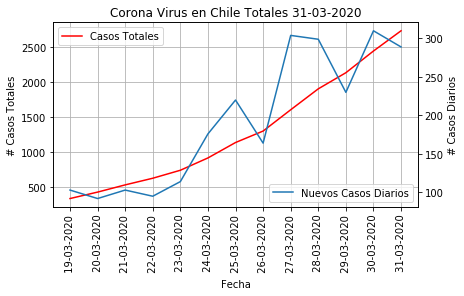
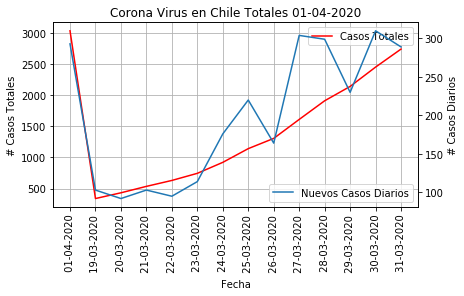
refresh

diff --git a/readme.md b/readme.md
@@ -534,3 +534,215 @@ Im pushing everything to a Live dashobard that you can find [here](https://datas
 | 16 | Aysén              |              0 |               2 | 0 %               |            0 |             0 | 31-03-2020 |
 | 17 | Magallanes         |             24 |              63 | 2 %               |            0 |             0 | 31-03-2020 |
 | 18 | Total              |            289 |            2738 | 100%              |           12 |           156 | 31-03-2020 |
+
+### 01-04-2020
+<img src="https://github.com/sundios/Chile-coronavirus/blob/master/Images/01-04-2020.png" width="60%" height="100%"> 
+
+|     | Country                | Total Cases   | New Cases   | Total Deaths   | New Deaths   | Total Recovered   | Active Cases   | Serious,Critical   | Total Cases/1M pop   | Total Deaths/1M pop   | Reported 1st Case   |
+|----:|:-----------------------|:--------------|:------------|:---------------|:-------------|:------------------|:---------------|:-------------------|:---------------------|:----------------------|:--------------------|
+|   0 | USA                    | 189,886       | +1,356      | 4,100          | +47          | 7,274             | 178,512        | 4,576              | 574                  | 12                    | Jan 20              |
+|   1 | Italy                  | 105,792       |             | 12,428         |              | 15,729            | 77,635         | 4,023              | 1,750                | 206                   | Jan 29              |
+|   2 | Spain                  | 102,136       | +6,213      | 9,053          | +589         | 22,647            | 70,436         | 5,872              | 2,185                | 194                   | Jan 30              |
+|   3 | Germany                | 74,508        | +2,700      | 821            | +46          | 16,100            | 57,587         | 2,675              | 889                  | 10                    | Jan 26              |
+|   4 | France                 | 52,128        |             | 3,523          |              | 9,444             | 39,161         | 5,565              | 799                  | 54                    | Jan 23              |
+|   5 | Iran                   | 47,593        | +2,988      | 3,036          | +138         | 15,473            | 29,084         | 3,871              | 567                  | 36                    | Feb 18              |
+|   6 | UK                     | 29,474        | +4,324      | 2,352          | +563         | 135               | 26,987         | 163                | 434                  | 35                    | Jan 30              |
+|   7 | Switzerland            | 17,137        | +532        | 461            | +28          | 2,967             | 13,709         | 348                | 1,980                | 53                    | Feb 24              |
+|   8 | Belgium                | 13,964        | +1,189      | 828            | +123         | 2,132             | 11,004         | 1,088              | 1,205                | 71                    | Feb 03              |
+|   9 | Netherlands            | 13,614        | +1,019      | 1,173          | +134         | 250               | 12,191         | 1,053              | 795                  | 68                    | Feb 26              |
+|  10 | Turkey                 | 13,531        |             | 214            |              | 243               | 13,074         | 847                | 160                  | 3                     | Mar 09              |
+|  11 | Austria                | 10,501        | +321        | 146            | +18          | 1,436             | 8,919          | 215                | 1,166                | 16                    | Feb 24              |
+|  12 | S. Korea               | 9,887         | +101        | 165            | +3           | 5,567             | 4,155          | 55                 | 193                  | 3                     | Jan 19              |
+|  13 | Canada                 | 8,612         |             | 101            |              | 1,242             | 7,269          | 120                | 228                  | 3                     | Jan 24              |
+|  14 | Portugal               | 8,251         | +808        | 187            | +27          | 43                | 8,021          | 230                | 809                  | 18                    | Mar 01              |
+|  15 | Brazil                 | 5,868         | +151        | 203            | +2           | 127               | 5,538          | 296                | 28                   | 1.0                   | Feb 24              |
+|  16 | Israel                 | 5,591         | +233        | 23             | +3           | 226               | 5,342          | 97                 | 646                  | 3                     | Feb 20              |
+|  17 | Sweden                 | 4,947         | +512        | 239            | +59          | 16                | 4,692          | 393                | 490                  | 24                    | Jan 30              |
+|  18 | Australia              | 4,864         | +101        | 21             | +1           | 345               | 4,498          | 50                 | 191                  | 0.8                   | Jan 24              |
+|  19 | Norway                 | 4,828         | +187        | 43             | +4           | 13                | 4,772          | 105                | 891                  | 8                     | Feb 25              |
+|  20 | Czechia                | 3,330         | +22         | 32             | +1           | 45                | 3,253          | 70                 | 311                  | 3                     | Feb 29              |
+|  21 | Ireland                | 3,235         |             | 71             |              | 5                 | 3,159          | 103                | 655                  | 14                    | Feb 28              |
+|  22 | Denmark                | 3,092         | +232        | 104            | +14          | 1                 | 2,987          | 145                | 534                  | 18                    | Feb 26              |
+|  23 | Chile                  | 3,031         | +293        | 16             | +4           | 234               | 2,781          | 31                 | 159                  | 0.8                   | Mar 02              |
+|  24 | Malaysia               | 2,908         | +142        | 45             | +2           | 645               | 2,218          | 102                | 90                   | 1                     | Jan 24              |
+|  25 | Russia                 | 2,777         | +440        | 24             | +7           | 190               | 2,563          | 8                  | 19                   | 0.2                   | Jan 30              |
+|  26 | Romania                | 2,460         | +215        | 86             | +4           | 252               | 2,122          | 57                 | 128                  | 4                     | Feb 25              |
+|  27 | Poland                 | 2,420         | +109        | 36             | +3           | 7                 | 2,377          | 50                 | 64                   | 1.0                   | Mar 03              |
+|  28 | Philippines            | 2,311         | +227        | 96             | +8           | 50                | 2,165          | 1                  | 21                   | 0.9                   | Jan 29              |
+|  29 | Ecuador                | 2,302         |             | 79             |              | 58                | 2,165          | 100                | 130                  | 4                     | Feb 28              |
+|  30 | Japan                  | 2,178         |             | 57             |              | 472               | 1,649          | 69                 | 17                   | 0.5                   | Jan 14              |
+|  31 | Luxembourg             | 2,178         |             | 23             |              | 80                | 2,075          | 31                 | 3,479                | 37                    | Feb 28              |
+|  32 | Pakistan               | 2,071         | +133        | 26             |              | 82                | 1,963          | 12                 | 9                    | 0.1                   | Feb 25              |
+|  33 | Thailand               | 1,771         | +120        | 12             | +2           | 416               | 1,343          | 23                 | 25                   | 0.2                   | Jan 12              |
+|  34 | Saudi Arabia           | 1,720         | +157        | 16             | +6           | 264               | 1,440          | 31                 | 49                   | 0.5                   | Mar 01              |
+|  35 | Indonesia              | 1,677         | +149        | 157            | +21          | 103               | 1,417          |                    | 6                    | 0.6                   | Mar 01              |
+|  36 | India                  | 1,637         | +240        | 45             | +10          | 148               | 1,444          |                    | 1                    | 0.03                  | Jan 29              |
+|  37 | Finland                | 1,446         | +28         | 17             |              | 10                | 1,419          | 62                 | 261                  | 3                     | Jan 28              |
+|  38 | South Africa           | 1,353         |             | 5              |              | 50                | 1,298          | 7                  | 23                   | 0.08                  | Mar 04              |
+|  39 | Greece                 | 1,314         |             | 49             |              | 52                | 1,213          | 72                 | 126                  | 5                     | Feb 25              |
+|  40 | Dominican Republic     | 1,284         | +175        | 57             | +6           | 9                 | 1,218          |                    | 118                  | 5                     | Feb 29              |
+|  41 | Iceland                | 1,220         | +85         | 2              |              | 225               | 993            | 11                 | 3,575                | 6                     | Feb 27              |
+|  42 | Mexico                 | 1,215         | +121        | 29             | +1           | 35                | 1,151          | 1                  | 9                    | 0.2                   | Feb 27              |
+|  43 | Panama                 | 1,181         |             | 30             |              | 9                 | 1,142          | 50                 | 274                  | 7                     | Mar 09              |
+|  44 | Peru                   | 1,065         |             | 30             |              | 394               | 641            | 49                 | 32                   | 0.9                   | Mar 05              |
+|  45 | Serbia                 | 1,060         | +160        | 28             | +5           | 42                | 990            | 62                 | 121                  | 3                     | Mar 05              |
+|  46 | Argentina              | 1,054         |             | 27             |              | 248               | 779            |                    | 23                   | 0.6                   | Mar 02              |
+|  47 | Singapore              | 1,000         | +74         | 3              |              | 245               | 752            | 24                 | 171                  | 0.5                   | Jan 22              |
+|  48 | Croatia                | 963           | +96         | 6              |              | 73                | 884            | 34                 | 235                  | 1                     | Feb 24              |
+|  49 | Colombia               | 906           |             | 16             |              | 31                | 859            | 35                 | 18                   | 0.3                   | Mar 05              |
+|  50 | Slovenia               | 841           | +39         | 15             |              | 10                | 816            | 31                 | 405                  | 7                     | Mar 03              |
+|  51 | Qatar                  | 781           |             | 2              |              | 62                | 717            | 6                  | 271                  | 0.7                   | Feb 28              |
+|  52 | Estonia                | 779           | +34         | 5              | +1           | 33                | 741            | 15                 | 587                  | 4                     | Feb 26              |
+|  53 | Hong Kong              | 765           | +50         | 4              |              | 147               | 614            | 5                  | 102                  | 0.5                   | Jan 22              |
+|  54 | Algeria                | 716           |             | 44             |              | 46                | 626            |                    | 16                   | 1                     | Feb 24              |
+|  55 | Diamond Princess       | 712           |             | 11             |              | 603               | 98             | 15                 |                      |                       | Feb 04              |
+|  56 | Egypt                  | 710           |             | 46             |              | 157               | 507            |                    | 7                    | 0.4                   | Feb 13              |
+|  57 | New Zealand            | 708           | +61         | 1              |              | 83                | 624            | 2                  | 147                  | 0.2                   | Feb 27              |
+|  58 | Iraq                   | 694           |             | 50             |              | 170               | 474            |                    | 17                   | 1                     | Feb 21              |
+|  59 | Ukraine                | 669           | +24         | 17             |              | 10                | 642            |                    | 15                   | 0.4                   | Mar 02              |
+|  60 | UAE                    | 664           |             | 6              |              | 61                | 597            | 2                  | 67                   | 0.6                   | Jan 28              |
+|  61 | Morocco                | 638           | +21         | 37             | +1           | 26                | 575            | 1                  | 17                   | 1                     | Mar 01              |
+|  62 | Lithuania              | 581           | +44         | 8              |              | 7                 | 566            | 11                 | 213                  | 3                     | Feb 27              |
+|  63 | Armenia                | 571           | +39         | 3              |              | 31                | 537            | 30                 | 193                  | 1                     | Feb 29              |
+|  64 | Bahrain                | 567           |             | 4              |              | 316               | 247            | 2                  | 333                  | 2                     | Feb 23              |
+|  65 | Hungary                | 525           | +33         | 20             | +4           | 40                | 465            | 17                 | 54                   | 2                     | Mar 03              |
+|  66 | Lebanon                | 479           | +16         | 14             | +2           | 43                | 422            | 7                  | 70                   | 2                     | Feb 20              |
+|  67 | Bosnia and Herzegovina | 455           | +35         | 13             |              | 19                | 423            | 1                  | 139                  | 4                     | Mar 04              |
+|  68 | Latvia                 | 446           | +48         |                |              | 1                 | 445            | 3                  | 236                  |                       | Mar 01              |
+|  69 | Moldova                | 423           | +70         | 4              |              | 22                | 397            | 44                 | 105                  | 1.0                   | Mar 06              |
+|  70 | Bulgaria               | 422           | +23         | 9              | +1           | 20                | 393            | 18                 | 61                   | 1                     | Mar 06              |
+|  71 | Slovakia               | 400           | +37         | 1              | +1           | 3                 | 396            | 1                  | 73                   | 0.2                   | Mar 05              |
+|  72 | Tunisia                | 394           |             | 10             |              | 3                 | 381            | 10                 | 33                   | 0.8                   | Mar 01              |
+|  73 | Andorra                | 390           | +14         | 14             | +2           | 10                | 366            | 12                 | 5,048                | 181                   | Mar 01              |
+|  74 | Kazakhstan             | 375           | +32         | 3              | +1           | 26                | 346            | 6                  | 20                   | 0.2                   | Mar 12              |
+|  75 | Azerbaijan             | 359           | +61         | 5              |              | 26                | 328            | 7                  | 35                   | 0.5                   | Feb 27              |
+|  76 | North Macedonia        | 354           | +25         | 9              |              | 12                | 333            | 4                  | 170                  | 4                     | Feb 25              |
+|  77 | Costa Rica             | 347           |             | 2              |              | 4                 | 341            | 8                  | 68                   | 0.4                   | Mar 04              |
+|  78 | Uruguay                | 338           |             | 2              | +1           | 41                | 295            | 12                 | 97                   | 0.6                   | Mar 12              |
+|  79 | Taiwan                 | 329           | +7          | 5              |              | 45                | 279            |                    | 14                   | 0.2                   | Jan 20              |
+|  80 | Kuwait                 | 317           | +28         |                |              | 80                | 237            | 13                 | 74                   |                       | Feb 23              |
+|  81 | Jordan                 | 274           |             | 5              |              | 30                | 239            | 5                  | 27                   | 0.5                   | Mar 01              |
+|  82 | Cyprus                 | 262           |             | 8              |              | 23                | 231            | 3                  | 217                  | 7                     | Mar 08              |
+|  83 | Burkina Faso           | 261           |             | 14             |              | 32                | 215            |                    | 12                   | 0.7                   | Mar 08              |
+|  84 | Albania                | 259           | +16         | 15             |              | 67                | 177            | 7                  | 90                   | 5                     | Mar 07              |
+|  85 | Réunion                | 247           |             |                |              | 1                 | 246            | 4                  | 276                  |                       | Mar 10              |
+|  86 | San Marino             | 236           |             | 26             |              | 13                | 197            | 16                 | 6,955                | 766                   | Feb 26              |
+|  87 | Cameroon               | 233           | +40         | 6              |              | 10                | 217            |                    | 9                    | 0.2                   | Mar 05              |
+|  88 | Vietnam                | 218           | +6          |                |              | 63                | 155            | 3                  | 2                    |                       | Jan 22              |
+|  89 | Oman                   | 210           | +18         | 1              |              | 34                | 175            | 3                  | 41                   | 0.2                   | Feb 23              |
+|  90 | Afghanistan            | 196           | +22         | 4              |              | 5                 | 187            |                    | 5                    | 0.1                   | Feb 23              |
+|  91 | Ghana                  | 195           | +34         | 5              |              | 31                | 159            | 1                  | 6                    | 0.2                   | Mar 11              |
+|  92 | Senegal                | 190           | +15         | 1              | +1           | 45                | 144            |                    | 11                   | 0.06                  | Mar 01              |
+|  93 | Malta                  | 188           | +19         |                |              | 2                 | 186            | 2                  | 426                  |                       | Mar 06              |
+|  94 | Cuba                   | 186           |             | 6              |              | 8                 | 172            | 3                  | 16                   | 0.5                   | Mar 10              |
+|  95 | Ivory Coast            | 179           |             | 1              |              | 7                 | 171            |                    | 7                    | 0.04                  | Mar 10              |
+|  96 | Uzbekistan             | 173           | +1          | 2              |              | 12                | 159            | 8                  | 5                    | 0.06                  | Mar 14              |
+|  97 | Faeroe Islands         | 173           | +4          |                |              | 75                | 98             | 1                  | 3,541                |                       | Mar 03              |
+|  98 | Honduras               | 172           | +31         | 10             | +3           | 3                 | 159            | 4                  | 17                   | 1                     | Mar 10              |
+|  99 | Channel Islands        | 172           | +31         | 3              |              |                   | 169            |                    | 989                  | 17                    | Mar 08              |
+| 100 | Belarus                | 163           | +11         | 2              | +1           | 53                | 108            | 2                  | 17                   | 0.2                   | Feb 27              |
+| 101 | Mauritius              | 154           | +11         | 5              |              |                   | 149            | 1                  | 121                  | 4                     | Mar 17              |
+| 102 | Nigeria                | 151           | +16         | 2              |              | 9                 | 140            |                    | 0.7                  | 0.01                  | Feb 27              |
+| 103 | Sri Lanka              | 146           | +3          | 2              |              | 21                | 123            | 5                  | 7                    | 0.09                  | Jan 26              |
+| 104 | Venezuela              | 143           | +8          | 3              |              | 41                | 99             | 6                  | 5                    | 0.1                   | Mar 12              |
+| 105 | Palestine              | 134           | +15         | 1              |              | 18                | 115            |                    | 26                   | 0.2                   | Mar 04              |
+| 106 | Brunei                 | 131           | +2          | 1              |              | 52                | 78             | 3                  | 299                  | 2                     | Mar 08              |
+| 107 | Martinique             | 128           |             | 3              |              | 27                | 98             | 15                 | 341                  | 8                     | Mar 04              |
+| 108 | Montenegro             | 120           | +11         | 2              |              |                   | 118            | 4                  | 191                  | 3                     | Mar 16              |
+| 109 | Bolivia                | 115           | +8          | 7              | +1           | 1                 | 107            | 3                  | 10                   | 0.6                   | Mar 09              |
+| 110 | Georgia                | 115           | +5          |                |              | 23                | 92             | 6                  | 29                   |                       | Feb 25              |
+| 111 | Guadeloupe             | 114           |             | 4              |              | 22                | 88             | 14                 | 285                  | 10                    | Mar 12              |
+| 112 | Kyrgyzstan             | 111           | +4          |                |              | 3                 | 108            | 3                  | 17                   |                       | Mar 17              |
+| 113 | DRC                    | 109           | +11         | 9              | +1           | 3                 | 97             |                    | 1                    | 0.1                   | Mar 09              |
+| 114 | Cambodia               | 109           |             |                |              | 25                | 84             | 1                  | 7                    |                       | Jan 26              |
+| 115 | Mayotte                | 94            |             | 1              |              | 10                | 83             | 3                  | 345                  | 4                     | Mar 13              |
+| 116 | Trinidad and Tobago    | 89            | +2          | 5              | +2           | 1                 | 83             |                    | 64                   | 4                     | Mar 11              |
+| 117 | Kenya                  | 81            | +22         | 1              |              | 3                 | 77             | 2                  | 2                    | 0.02                  | Mar 12              |
+| 118 | Rwanda                 | 75            |             |                |              |                   | 75             |                    | 6                    |                       | Mar 13              |
+| 119 | Paraguay               | 69            | +4          | 3              |              | 1                 | 65             | 4                  | 10                   | 0.4                   | Mar 06              |
+| 120 | Gibraltar              | 69            |             |                |              | 34                | 35             |                    | 2,048                |                       | Mar 02              |
+| 121 | Liechtenstein          | 68            |             |                |              |                   | 68             |                    | 1,783                |                       | Mar 02              |
+| 122 | Isle of Man            | 65            | +5          |                |              |                   | 65             |                    | 764                  |                       | Mar 18              |
+| 123 | Madagascar             | 57            |             |                |              |                   | 57             | 6                  | 2                    |                       | Mar 19              |
+| 124 | Aruba                  | 55            |             |                |              | 1                 | 54             |                    | 515                  |                       | Mar 12              |
+| 125 | Bangladesh             | 54            | +3          | 6              | +1           | 25                | 23             | 1                  | 0.3                  | 0.04                  | Mar 07              |
+| 126 | Monaco                 | 52            |             | 1              |              | 2                 | 49             |                    | 1,325                | 25                    | Feb 27              |
+| 127 | French Guiana          | 51            |             |                |              | 15                | 36             |                    | 171                  |                       | Mar 06              |
+| 128 | Uganda                 | 44            |             |                |              |                   | 44             |                    | 1.0                  |                       | Mar 20              |
+| 129 | Macao                  | 41            |             |                |              | 10                | 31             |                    | 63                   |                       | Jan 21              |
+| 130 | Guatemala              | 39            | +1          | 1              |              | 12                | 26             | 1                  | 2                    | 0.06                  | Mar 12              |
+| 131 | Jamaica                | 38            |             | 2              |              | 2                 | 34             |                    | 13                   | 0.7                   | Mar 09              |
+| 132 | French Polynesia       | 37            |             |                |              |                   | 37             | 1                  | 132                  |                       | Mar 10              |
+| 133 | Togo                   | 36            | +2          | 2              | +1           | 10                | 24             |                    | 4                    | 0.2                   | Mar 05              |
+| 134 | Zambia                 | 36            |             |                |              |                   | 36             |                    | 2                    |                       | Mar 17              |
+| 135 | Niger                  | 34            |             | 3              |              |                   | 31             |                    | 1                    | 0.1                   | Mar 18              |
+| 136 | Barbados               | 34            |             |                |              |                   | 34             |                    | 118                  |                       | Mar 16              |
+| 137 | Djibouti               | 33            | +3          |                |              |                   | 33             |                    | 33                   |                       | Mar 17              |
+| 138 | El Salvador            | 32            |             | 1              |              |                   | 31             | 4                  | 5                    | 0.2                   | Mar 18              |
+| 139 | Bermuda                | 32            |             |                |              | 10                | 22             |                    | 514                  |                       | Mar 17              |
+| 140 | Mali                   | 31            | +3          | 3              | +1           |                   | 28             |                    | 2                    | 0.1                   | Mar 24              |
+| 141 | Guinea                 | 30            | +8          |                |              |                   | 30             |                    | 2                    |                       | Mar 12              |
+| 142 | Ethiopia               | 29            | +3          |                |              | 2                 | 27             | 2                  | 0.3                  |                       | Mar 12              |
+| 143 | Tanzania               | 20            | +1          | 1              |              | 1                 | 18             |                    | 0.3                  | 0.02                  | Mar 15              |
+| 144 | Congo                  | 19            |             |                |              |                   | 19             |                    | 3                    |                       | Mar 14              |
+| 145 | Maldives               | 19            | +1          |                |              | 13                | 6              |                    | 35                   |                       | Mar 06              |
+| 146 | Gabon                  | 18            | +2          | 1              |              |                   | 17             |                    | 8                    | 0.4                   | Mar 12              |
+| 147 | Sint Maarten           | 16            | +10         | 1              | +1           | 6                 | 9              |                    | 373                  | 23                    | Mar 17              |
+| 148 | Haiti                  | 16            | +1          |                |              | 1                 | 15             |                    | 1                    |                       | Mar 19              |
+| 149 | New Caledonia          | 16            |             |                |              |                   | 16             |                    | 56                   |                       | Mar 17              |
+| 150 | Myanmar                | 15            |             | 1              |              |                   | 14             |                    | 0.3                  | 0.02                  | Mar 22              |
+| 151 | Saint Martin           | 15            |             | 1              |              | 2                 | 12             |                    | 388                  | 26                    | Feb 29              |
+| 152 | Bahamas                | 15            | +1          |                |              | 1                 | 14             |                    | 38                   |                       | Mar 14              |
+| 153 | Equatorial Guinea      | 15            |             |                |              | 1                 | 14             |                    | 11                   |                       | Mar 13              |
+| 154 | Eritrea                | 15            |             |                |              |                   | 15             |                    | 4                    |                       | Mar 20              |
+| 155 | Cayman Islands         | 14            |             | 1              |              |                   | 13             |                    | 213                  | 15                    | Mar 12              |
+| 156 | Mongolia               | 14            | +2          |                |              | 2                 | 12             |                    | 4                    |                       | Mar 09              |
+| 157 | Namibia                | 14            | +3          |                |              | 2                 | 12             |                    | 6                    |                       | Mar 13              |
+| 158 | Saint Lucia            | 13            |             |                |              | 1                 | 12             |                    | 71                   |                       | Mar 12              |
+| 159 | Guyana                 | 12            |             | 2              |              |                   | 10             |                    | 15                   | 3                     | Mar 11              |
+| 160 | Dominica               | 12            |             |                |              |                   | 12             |                    | 167                  |                       | Mar 21              |
+| 161 | Curaçao                | 11            |             | 1              |              | 3                 | 7              |                    | 67                   | 6                     | Mar 12              |
+| 162 | Syria                  | 10            |             | 2              |              |                   | 8              |                    | 0.6                  | 0.1                   | Mar 21              |
+| 163 | Greenland              | 10            |             |                |              | 2                 | 8              |                    | 176                  |                       | Mar 15              |
+| 164 | Laos                   | 10            | +1          |                |              |                   | 10             |                    | 1                    |                       | Mar 23              |
+| 165 | Libya                  | 10            |             |                |              | 1                 | 9              |                    | 1                    |                       | Mar 23              |
+| 166 | Mozambique             | 10            | +2          |                |              |                   | 10             |                    | 0.3                  |                       | Mar 21              |
+| 167 | Seychelles             | 10            |             |                |              |                   | 10             |                    | 102                  |                       | Mar 13              |
+| 168 | Suriname               | 10            | +1          |                |              |                   | 10             |                    | 17                   |                       | Mar 12              |
+| 169 | Benin                  | 9             |             |                |              | 1                 | 8              |                    | 0.7                  |                       | Mar 15              |
+| 170 | Grenada                | 9             |             |                |              |                   | 9              |                    | 80                   |                       | Mar 21              |
+| 171 | Eswatini               | 9             |             |                |              |                   | 9              |                    | 8                    |                       | Mar 13              |
+| 172 | Zimbabwe               | 8             |             | 1              |              |                   | 7              |                    | 0.5                  | 0.07                  | Mar 19              |
+| 173 | Guinea-Bissau          | 8             |             |                |              |                   | 8              |                    | 4                    |                       | Mar 24              |
+| 174 | Saint Kitts and Nevis  | 8             |             |                |              |                   | 8              |                    | 150                  |                       | Mar 24              |
+| 175 | Angola                 | 7             |             | 2              |              | 1                 | 4              |                    | 0.2                  | 0.06                  | Mar 19              |
+| 176 | Sudan                  | 7             |             | 2              |              | 1                 | 4              |                    | 0.2                  | 0.05                  | Mar 12              |
+| 177 | Antigua and Barbuda    | 7             |             |                |              |                   | 7              |                    | 71                   |                       | Mar 12              |
+| 178 | Chad                   | 7             |             |                |              |                   | 7              |                    | 0.4                  |                       | Mar 18              |
+| 179 | Cabo Verde             | 6             |             | 1              |              |                   | 5              |                    | 11                   | 2                     | Mar 19              |
+| 180 | Mauritania             | 6             |             | 1              |              | 2                 | 3              |                    | 1                    | 0.2                   | Mar 12              |
+| 181 | Vatican City           | 6             |             |                |              |                   | 6              |                    | 7,491                |                       | Mar 05              |
+| 182 | Liberia                | 6             | +3          |                |              |                   | 6              |                    | 1                    |                       | Mar 15              |
+| 183 | St. Barth              | 6             |             |                |              | 1                 | 5              |                    | 607                  |                       | Feb 29              |
+| 184 | Turks and Caicos       | 6             | +1          |                |              |                   | 6              |                    | 155                  |                       | Mar 22              |
+| 185 | Nicaragua              | 5             |             | 1              |              |                   | 4              |                    | 0.8                  | 0.2                   | Mar 18              |
+| 186 | Nepal                  | 5             |             |                |              | 1                 | 4              |                    | 0.2                  |                       | Jan 23              |
+| 187 | Fiji                   | 5             |             |                |              |                   | 5              |                    | 6                    |                       | Mar 18              |
+| 188 | Montserrat             | 5             |             |                |              |                   | 5              |                    | 1,002                |                       | Mar 17              |
+| 189 | Somalia                | 5             |             |                |              | 1                 | 4              |                    | 0.3                  |                       | Mar 15              |
+| 190 | Botswana               | 4             |             | 1              |              |                   | 3              |                    | 2                    | 0.4                   | Mar 29              |
+| 191 | Gambia                 | 4             |             | 1              |              |                   | 3              |                    | 2                    | 0.4                   | Mar 16              |
+| 192 | Bhutan                 | 4             |             |                |              |                   | 4              |                    | 5                    |                       | Mar 05              |
+| 193 | Belize                 | 3             |             |                |              |                   | 3              |                    | 8                    |                       | Mar 22              |
+| 194 | British Virgin Islands | 3             |             |                |              |                   | 3              |                    | 99                   |                       | Mar 24              |
+| 195 | CAR                    | 3             |             |                |              |                   | 3              |                    | 0.6                  |                       | Mar 14              |
+| 196 | MS Zaandam             | 2             |             |                |              |                   | 2              |                    |                      |                       | Mar 26              |
+| 197 | Anguilla               | 2             |             |                |              |                   | 2              |                    | 133                  |                       | Mar 25              |
+| 198 | Burundi                | 2             |             |                |              |                   | 2              |                    | 0.2                  |                       | Mar 30              |
+| 199 | Caribbean Netherlands  | 2             | +2          |                |              |                   | 2              |                    | 76                   |                       | Mar 31              |
+| 200 | Papua New Guinea       | 1             |             |                |              |                   | 1              |                    | 0.1                  |                       | Mar 19              |
+| 201 | St. Vincent Grenadines | 1             |             |                |              | 1                 | 0              |                    | 9                    |                       | Mar 10              |
+| 202 | Sierra Leone           | 1             |             |                |              |                   | 1              |                    | 0.1                  |                       | Mar 30              |
+| 203 | Timor-Leste            | 1             |             |                |              |                   | 1              |                    | 0.8                  |                       | Mar 20              |
+| 204 | China                  | 81,554        | +36         | 3,312          | +7           | 76,238            | 2,004          | 466                | 57                   | 2                     | Jan 10              |
+| 205 | Total:                 | 885,478       | +27,159     | 44,215         | +1,913       | 185,221           | 656,042        | 33,778             | 113.6                | 5.7                   |                     |
